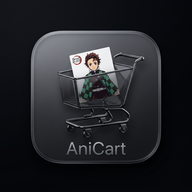
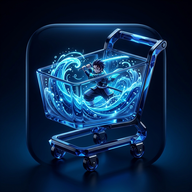
feat(branding): implement text-free dark blue transparent sapphire crystal cart with seamless anime art

diff --git a/client/public/sw.js b/client/public/sw.js
@@ -1,5 +1,5 @@
-// AniCart Service Worker v8.0.0 (Demon Slayer Dark Glassy Cart Logo)
-const CACHE_NAME = 'anicart-cache-v8';
+// AniCart Service Worker v9.0.0 (Dark Blue Transparent Crystal Anime Cart Logo)
+const CACHE_NAME = 'anicart-cache-v9';
 const PRECACHE_URLS = [
   '/',
   '/index.html',
